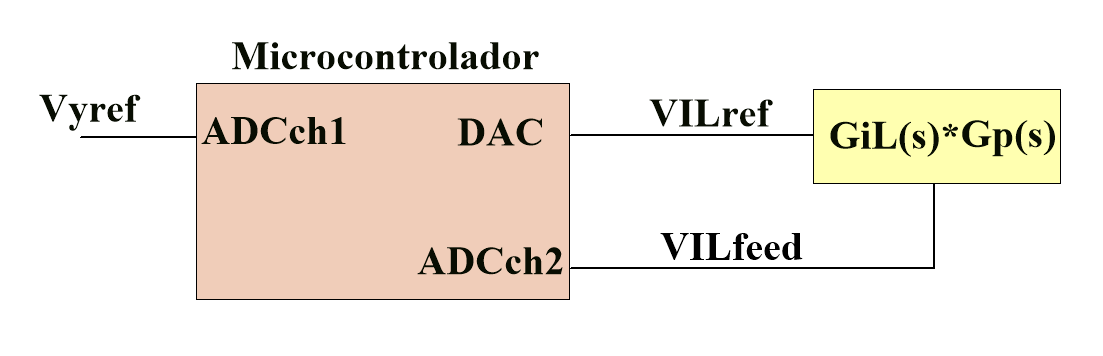
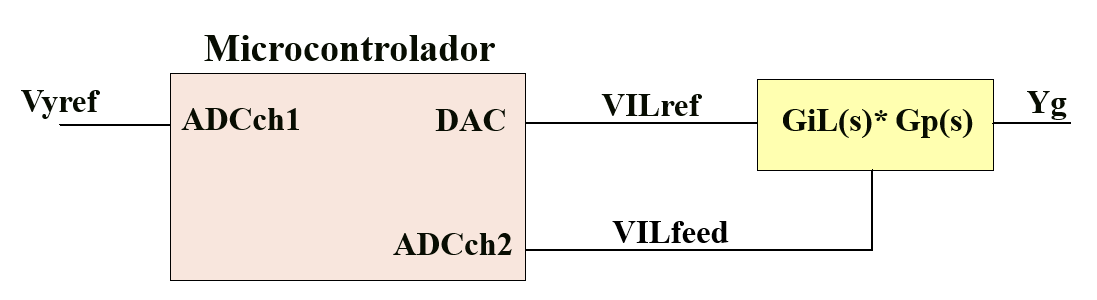
Cambios

diff --git a/Informe final/Proyecto Levitador LaTeX/Informe/7-ImplementacionDigital/ImplementacionDigital.tex b/Informe final/Proyecto Levitador LaTeX/Informe/7-ImplementacionDigital/ImplementacionDigital.tex
@@ -21,7 +21,6 @@ Por otra parte, se diseñan los circuitos de interfaz encargados de muestrear, r
 	\label{fig:diag-en-bloques-digital}
 \end{figure}
 
-\colorbox{red}{Agregar la salida Yg}
 %\colorbox{blue}{yo dejaría el de arriba que representa mejor que la entrada al sistema digital es la corriente. pero el de abajo nos sirve para el diseño del compensador también}
 %
 %Abstrayéndose de la matemática que se realiza dentro del microcontrolador para la estimación de posición, se puede simplificar el diagrama al que se muestra en la figura \ref{fig:diag-en-bloques-digital-simplif}, en la que:
@@ -62,7 +61,7 @@ Por otra parte, se diseñan los circuitos de interfaz encargados de muestrear, r
 
 \section{Consideraciones para el dominio discreto}\label{consideraciones_sistemas_discretos}
 
-Como se mencionó previamente para la implementación digital se van a tomar muestras de la señales de la planta y se las van a utilizar para implementar un algoritmo de compensación dentro del microcontrolador. 
+Como se mencionó previamente, para la implementación digital se van a tomar muestras de la señales de la planta y se las van a utilizar para implementar un algoritmo de compensación dentro del microcontrolador. 
 
 Se desea implementar un compensador en el dominio discreto y controlar una planta continua. Para ello, es necesario convertir señales analógicas a discretas para poder utilizarlas en el algoritmo de control y viceversa para actuar sobre la planta. Para esto se utilizan conversores analógico digitales ($ADC$) y conversores digital analógicos ($DAC$). En la figura \ref{fig:diag-general-digital} se muestra un diagrama en bloques de un sistema de control con un compensador digital D(z) que controla una planta continua $G(s)$.
 
@@ -71,6 +70,12 @@ Se desea implementar un compensador en el dominio discreto y controlar una plant
 	\input{tikz/diagrama_control_discreto.tex}
 	\caption{Diagrama en bloques de controlador digital.}	\label{fig:diag-general-digital}
 \end{figure}
+
+\colorbox{red}{¿Habría que agregar un ADC en la entrada con Vyref antes de R(z)?}
+
+
+\colorbox{red}{¿Que sería C(s)?}
+
 
 
 Para hacer la conversión entre el dominio digital al analógico, el DAC mantiene el valor entre cada muestra, actualizando el valor de la señal en cada intervalo de tiempo discreto ($T_s$). Este efecto se lo conoce como retenedor de orden cero ($ROC$) y se lo puede modelar con la ecuación \ref{eq_retenedor_orden-0}. Es importante tener en cuenta el efecto que agrega el $ROC$ sobre la planta al momento de diseñar el compensador, ya que puede afectar la estabilidad del sistema.
@@ -91,6 +96,8 @@ Una vez obtenido el modelo discreto de la planta con el efecto del ROC, se propo
 \begin{equation*}
 	z=\frac{1+\frac{sT_s}{2}}{1-\frac{sT_s}{2}}
 \end{equation*}
+
+\colorbox{red}{Esto sería w en vez de s, no?}
 
 
 Una vez diseñado el compensador en el dominio analógico, se aplica la transformada bilineal inversa y se obtiene su equivalente en el plano transformado Z para ser implementado en el microcontrolador. Este compensador $D(z)$ es luego convertido, por medio de la transformada Z inversa, a una ecuación en diferencias que relaciona la salida $u[n]$ con la entrada $e[n]$. 
@@ -118,7 +125,7 @@ Una vez diseñado el compensador en el dominio analógico, se aplica la transfor
 
 
 
-\section{Diseño de algoritmo de estimación}
+\section{Diseño del algoritmo de estimación}
 
 En esta sección se diseña el algoritmo que realiza la estimación de distancia de entrehierro $Y_g$ a partir de las muestras tomadas por el ADC de la tensión de salida del sensor de efecto Hall.
 
@@ -192,8 +199,7 @@ En esta sección se desarrolla el algoritmo ideado para estimar la distancia de 
 	\label{fig:procesamiento-muestras-adquiridas}
 \end{figure}
 
-\colorbox{red}{Borrar del diagrama lo de la compensación de resistencia interna}
-Cada muestra de tensión tomada de la señal $V_h$ se almacena en un vector de 7 posiciones. Se elige este tamaño considerando el caso extremo de frecuencia, en el que solo se pueden obtener 7 muestras por semiciclo. Para poder discernir entre pendientes de bajada y de subida, se verifica en cada muestra si el valor leído es mayor o menor al almacenado en la posición anterior. En caso de que sea mayor al anterior, significa que se está muestreando la pendiente positiva de la onda triangular. La distinción entre pendientes positivas y negativas es importante puesto que permite aplicar la compensación de la resistencia interna al igual que se realiza en el estimador analógico. 
+Cada muestra de tensión tomada de la señal $V_h$ se almacena en un vector de 7 posiciones. Para poder discernir entre pendientes de bajada y de subida, se verifica en cada muestra si el valor leído es mayor o menor al almacenado en la posición anterior. En caso de que sea mayor al anterior, significa que se está muestreando la pendiente positiva de la onda triangular. La distinción entre pendientes positivas y negativas es importante puesto que permite aplicar la compensación de la resistencia interna al igual que se realiza en el estimador analógico. 
 
 Cada vez que el vector se completa, se realiza el cálculo de la derivada con el valor máximo y mínimo almacenado. Con este resultado, se hace la estimación de la posición y se actualiza la entrada al compensador digital.
 
